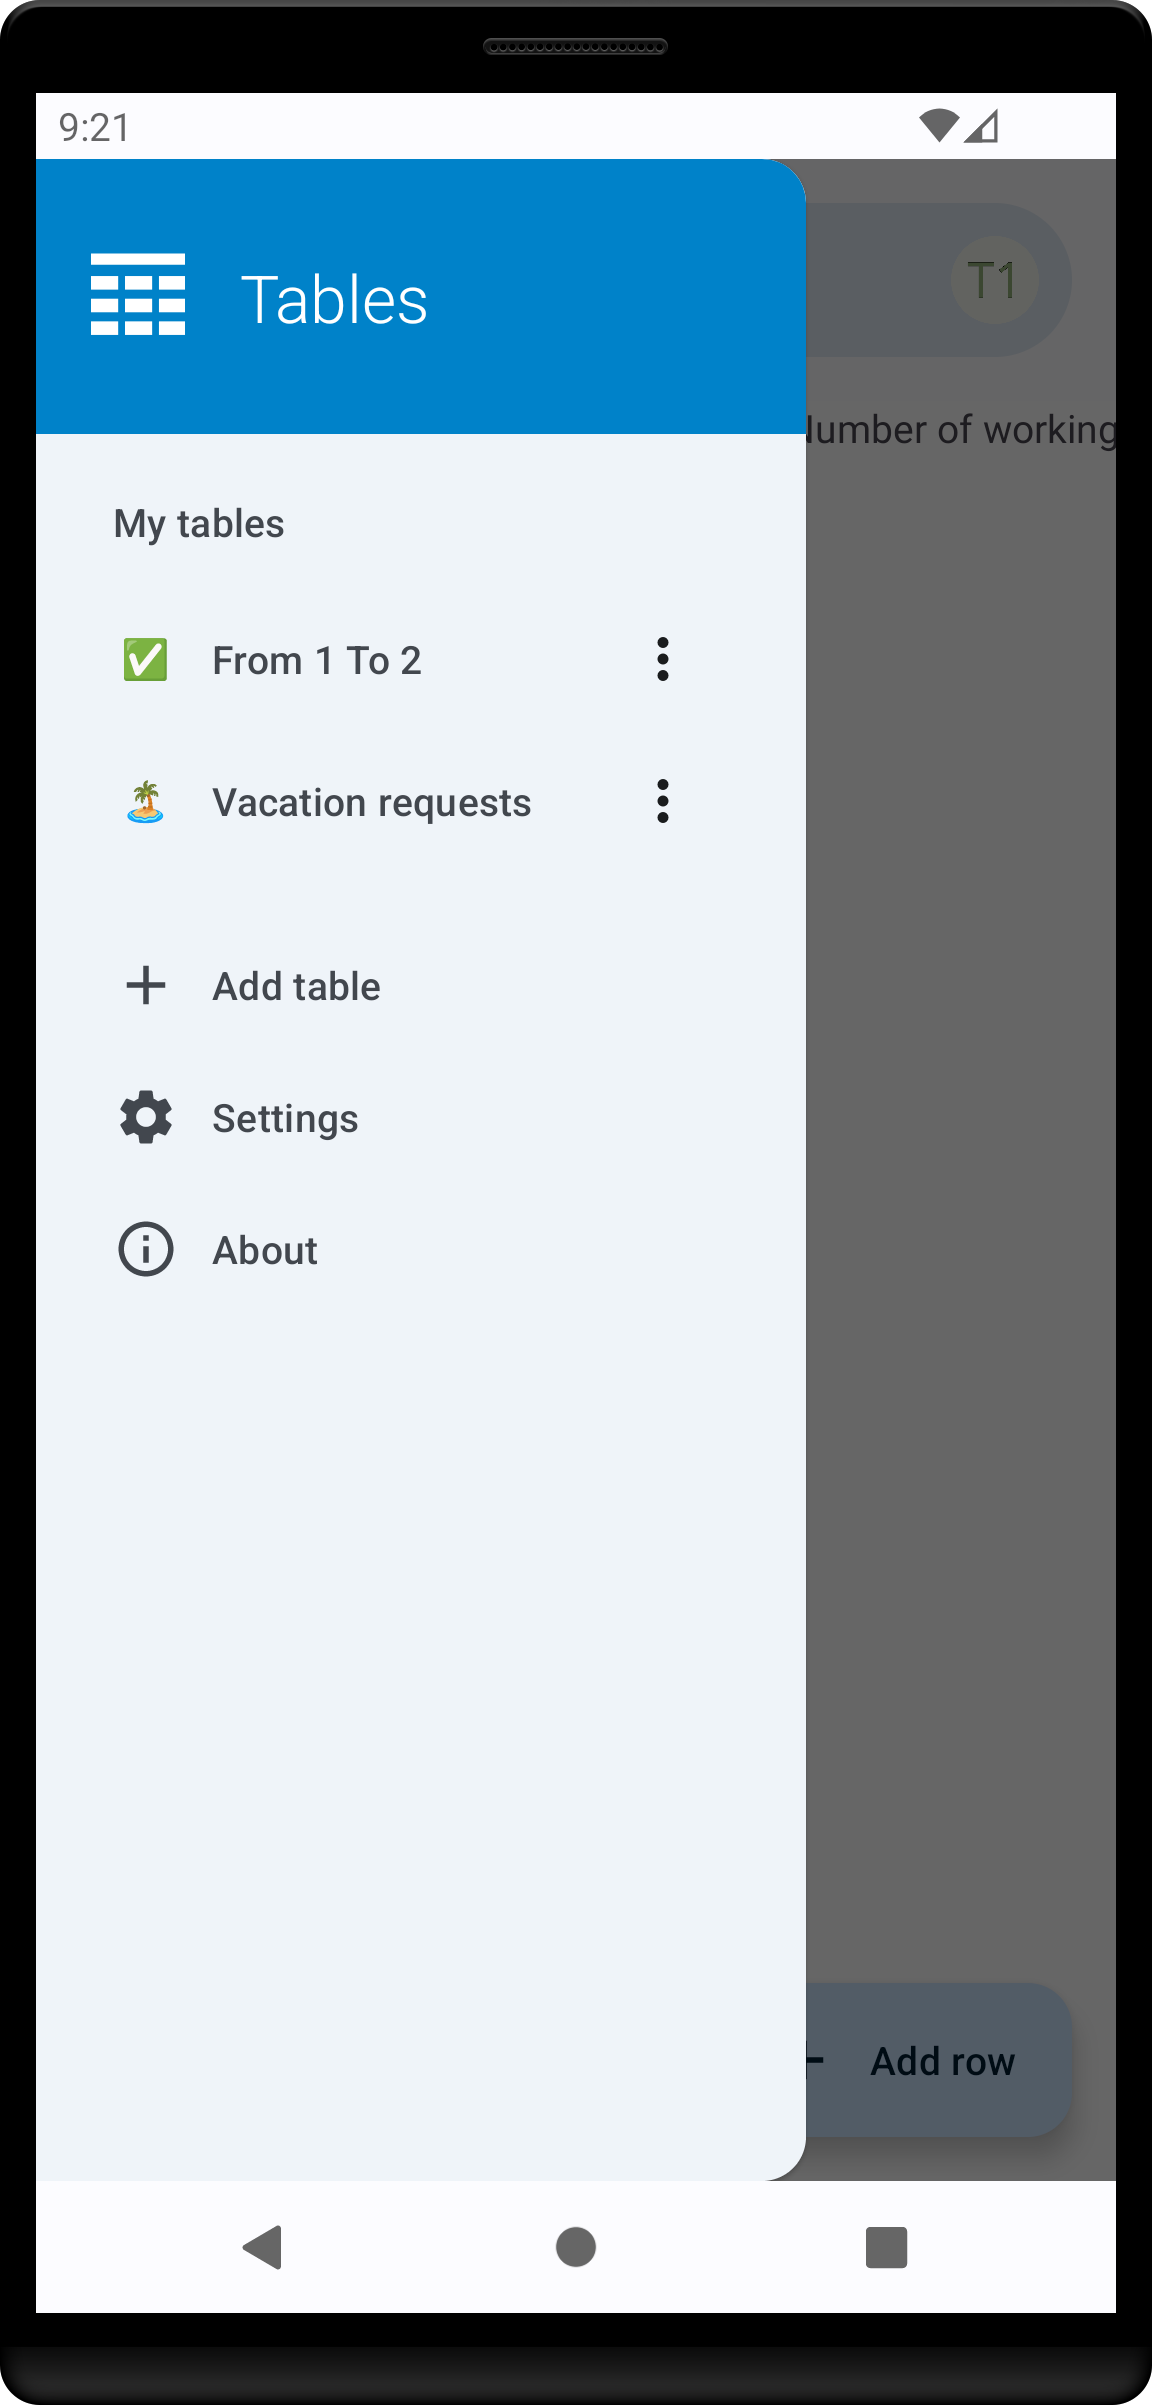
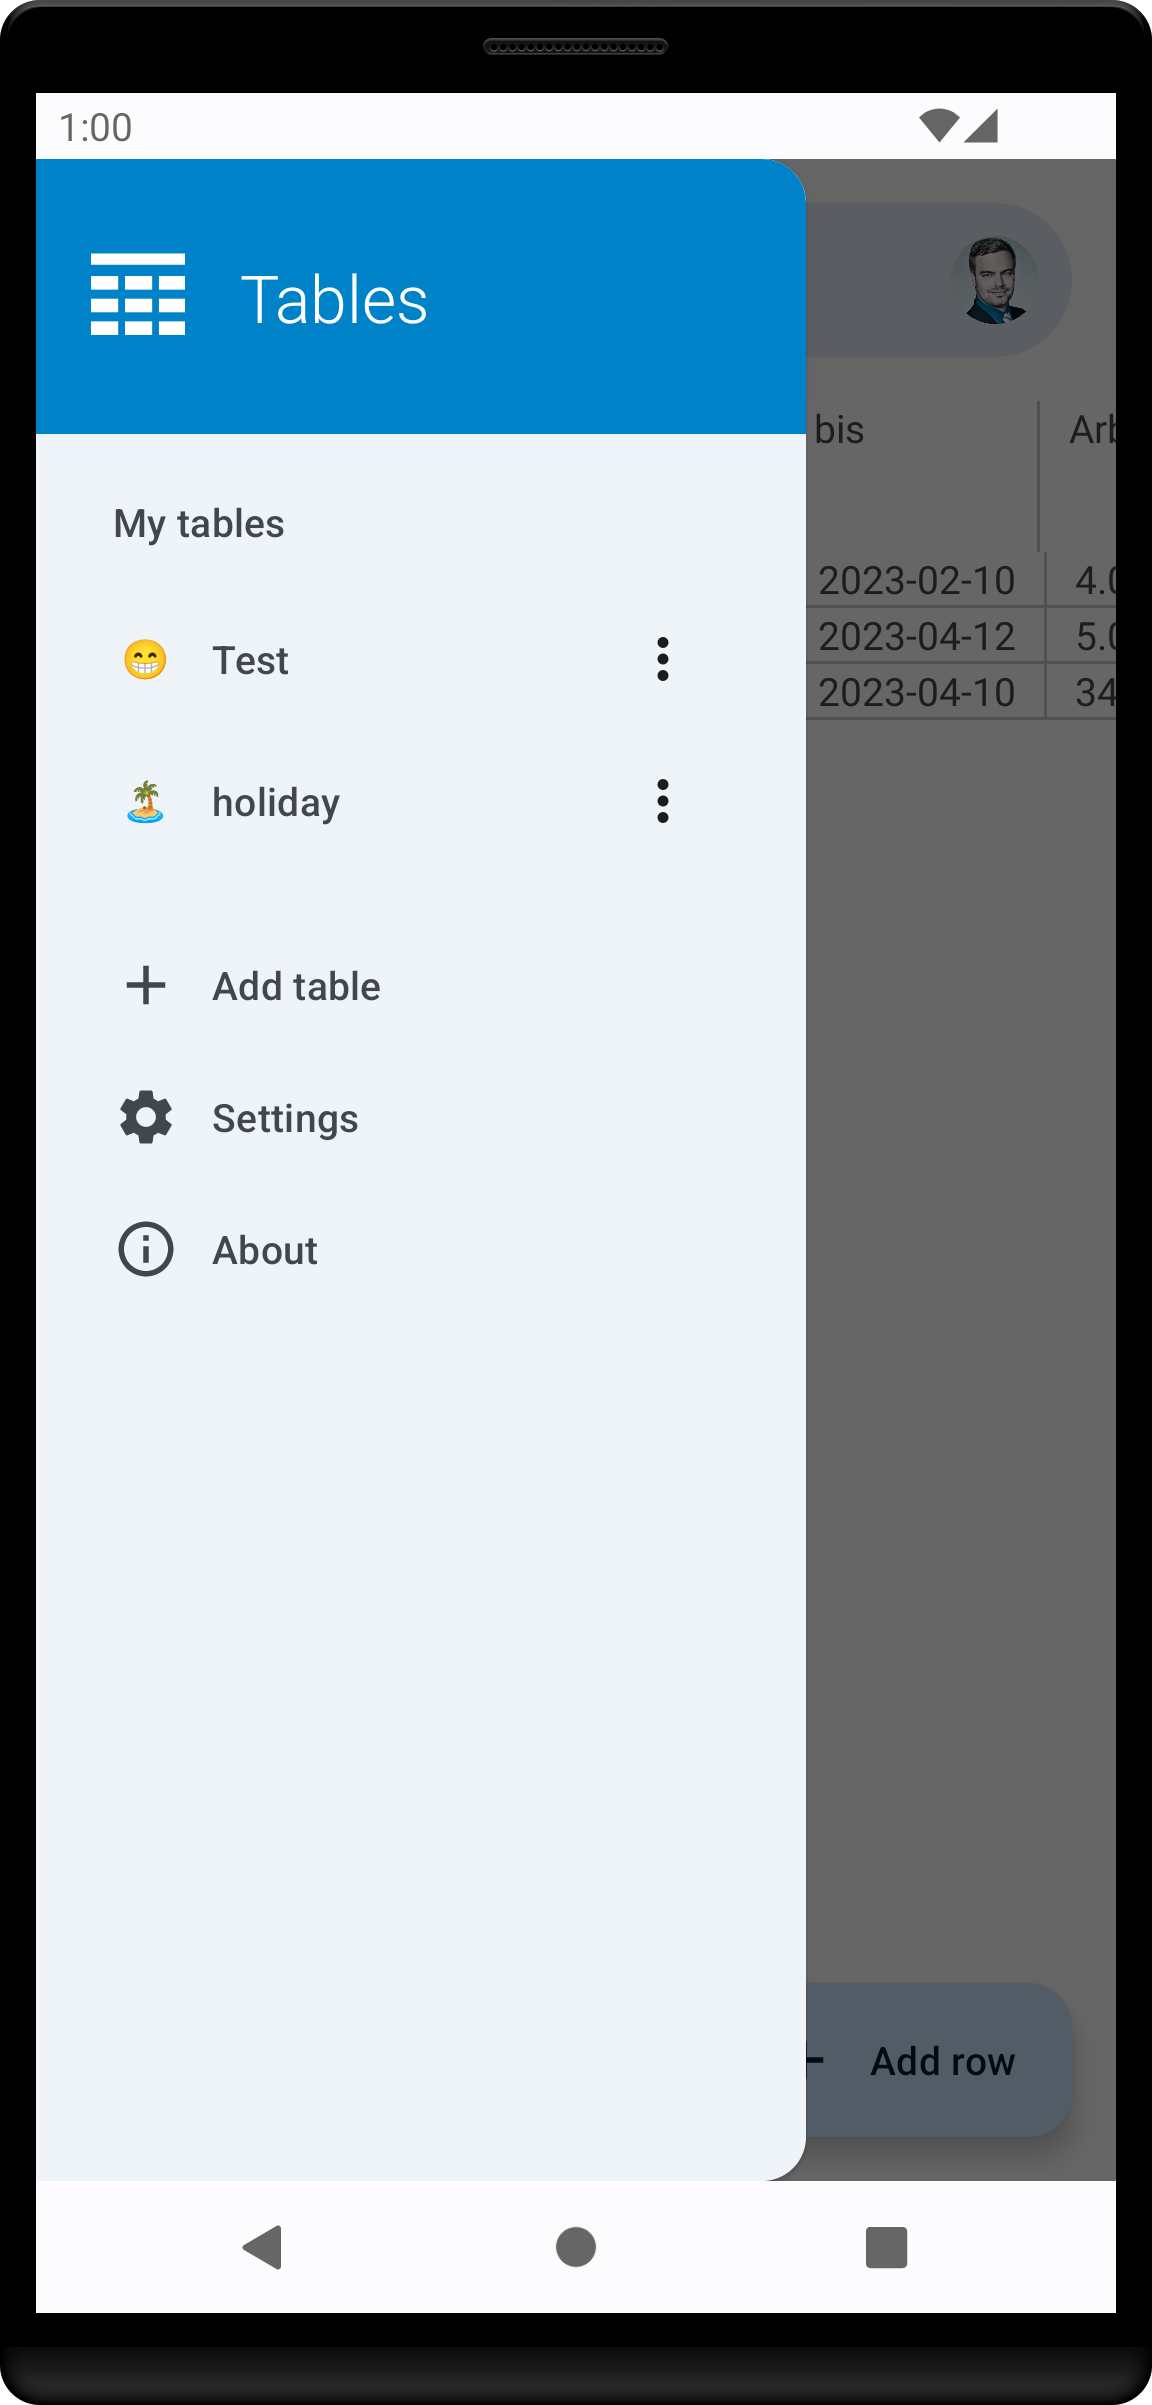
feat: Display table cells

diff --git a/app/src/main/java/it/niedermann/nextcloud/tables/database/entity/Data.java b/app/src/main/java/it/niedermann/nextcloud/tables/database/entity/Data.java
@@ -1,5 +1,6 @@
 package it.niedermann.nextcloud.tables.database.entity;
 
+import androidx.annotation.NonNull;
 import androidx.room.Entity;
 import androidx.room.ForeignKey;
 import androidx.room.Index;
@@ -14,14 +15,20 @@ import java.util.Objects;
         foreignKeys = {
                 @ForeignKey(
                         entity = Column.class,
-                        parentColumns = {"accountId", "id", "remoteId"},
-                        childColumns = {"accountId", "columnId", "remoteColumnId"},
+                        parentColumns = {"accountId", "tableId", "id", "remoteId"},
+                        childColumns = {"accountId", "tableId", "columnId", "remoteColumnId"},
                         onDelete = ForeignKey.CASCADE
                 ),
                 @ForeignKey(
                         entity = Row.class,
+                        parentColumns = {"accountId", "tableId", "id"},
+                        childColumns = {"accountId", "tableId", "rowId"},
+                        onDelete = ForeignKey.CASCADE
+                ),
+                @ForeignKey(
+                        entity = Table.class,
                         parentColumns = {"accountId", "id"},
-                        childColumns = {"accountId", "rowId"},
+                        childColumns = {"accountId", "tableId"},
                         onDelete = ForeignKey.CASCADE
                 )
         },
@@ -38,6 +45,9 @@ public class Data extends AbstractAccountRelatedEntity {
     @SerializedName("localRowId")
     @Expose(deserialize = false, serialize = false)
     private long rowId;
+    @SerializedName("localTableId")
+    @Expose(deserialize = false, serialize = false)
+    private long tableId;
     @SerializedName("columnId")
     private long remoteColumnId;
     private Object value;
@@ -62,6 +72,14 @@ public class Data extends AbstractAccountRelatedEntity {
         this.rowId = rowId;
     }
 
+    public long getTableId() {
+        return tableId;
+    }
+
+    public void setTableId(long tableId) {
+        this.tableId = tableId;
+    }
+
     public long getRemoteColumnId() {
         return remoteColumnId;
     }
@@ -84,11 +102,17 @@ public class Data extends AbstractAccountRelatedEntity {
         if (o == null || getClass() != o.getClass()) return false;
         if (!super.equals(o)) return false;
         Data data = (Data) o;
-        return columnId == data.columnId && rowId == data.rowId && remoteColumnId == data.remoteColumnId && Objects.equals(value, data.value);
+        return columnId == data.columnId && rowId == data.rowId && tableId == data.tableId && remoteColumnId == data.remoteColumnId && Objects.equals(value, data.value);
     }
 
     @Override
     public int hashCode() {
-        return Objects.hash(super.hashCode(), columnId, rowId, remoteColumnId, value);
+        return Objects.hash(super.hashCode(), columnId, rowId, tableId, remoteColumnId, value);
+    }
+
+    @NonNull
+    @Override
+    public String toString() {
+        return getValue() + " in Table " + getTableId() + ", Row: " + getRowId() + ", Column: " + getColumnId();
     }
 }

diff --git a/app/src/main/java/it/niedermann/nextcloud/tables/ui/table/view/ViewTableFragment.java b/app/src/main/java/it/niedermann/nextcloud/tables/ui/table/view/ViewTableFragment.java
@@ -9,12 +9,8 @@ import android.view.ViewGroup;
 import androidx.annotation.NonNull;
 import androidx.core.content.ContextCompat;
 import androidx.fragment.app.Fragment;
-import androidx.lifecycle.Transformations;
 import androidx.lifecycle.ViewModelProvider;
 
-import java.util.stream.Collectors;
-
-import it.niedermann.nextcloud.tables.database.entity.AbstractRemoteEntity;
 import it.niedermann.nextcloud.tables.database.entity.Account;
 import it.niedermann.nextcloud.tables.database.entity.Table;
 import it.niedermann.nextcloud.tables.databinding.FragmentTableBinding;
@@ -51,21 +47,9 @@ public class ViewTableFragment extends Fragment {
         adapter = new TableViewAdapter();
         binding.tableView.setAdapter(adapter);
 
-        viewTableViewModel.getRows(table).observe(getViewLifecycleOwner(), rows -> {
-            adapter.setRowHeaderItems(rows);
-        });
-
-        viewTableViewModel.getColumns(table).observe(getViewLifecycleOwner(), columns -> {
-            adapter.setColumnHeaderItems(columns);
-        });
-
-        Transformations.switchMap(viewTableViewModel.getColumns(table), columns -> viewTableViewModel
-                        .getData(table, columns.stream()
-                                .map(AbstractRemoteEntity::getRemoteId)
-                                .collect(Collectors.toUnmodifiableList())))
-                .observe(getViewLifecycleOwner(), data -> {
-//                adapter.setCellItems(data);
-                });
+        viewTableViewModel.getRows(table).observe(getViewLifecycleOwner(), rows -> adapter.setRowHeaderItems(rows));
+        viewTableViewModel.getColumns(table).observe(getViewLifecycleOwner(), columns -> adapter.setColumnHeaderItems(columns));
+        viewTableViewModel.getData(table).observe(getViewLifecycleOwner(), data -> adapter.setCellItems(data));
 
         binding.fab.setOnClickListener(v -> startActivity(EditRowActivity.createIntent(requireContext(), account)));
         binding.swipeRefreshLayout.setOnRefreshListener(() -> viewTableViewModel.synchronizeAccountAndTables(account).whenCompleteAsync((result, exception) -> {

diff --git a/app/src/main/java/it/niedermann/nextcloud/tables/ui/table/view/ViewTableViewModel.java b/app/src/main/java/it/niedermann/nextcloud/tables/ui/table/view/ViewTableViewModel.java
@@ -7,16 +7,20 @@ import android.app.Application;
 import androidx.annotation.NonNull;
 import androidx.lifecycle.AndroidViewModel;
 import androidx.lifecycle.LiveData;
+import androidx.lifecycle.Transformations;
 
 import com.nextcloud.android.sso.exceptions.NextcloudFilesAppAccountNotFoundException;
 import com.nextcloud.android.sso.exceptions.NextcloudHttpRequestFailedException;
 
 import java.io.IOException;
+import java.util.ArrayList;
 import java.util.List;
+import java.util.Map;
 import java.util.concurrent.CompletableFuture;
 import java.util.concurrent.CompletionException;
 import java.util.concurrent.ExecutorService;
 import java.util.concurrent.Executors;
+import java.util.stream.Collectors;
 
 import it.niedermann.nextcloud.tables.database.entity.Account;
 import it.niedermann.nextcloud.tables.database.entity.Column;
@@ -61,7 +65,22 @@ public class ViewTableViewModel extends AndroidViewModel {
         return tablesRepository.getColumns(table);
     }
 
-    public LiveData<List<Data>> getData(@NonNull Table table, List<Long> remoteColumnIds) {
-        return tablesRepository.getData(table, remoteColumnIds);
+    public LiveData<List<List<Data>>> getData(@NonNull Table table) {
+        return Transformations.map(tablesRepository.getData(table), data -> new ArrayList<>(data.stream()
+                .collect(Collectors.groupingBy(Data::getRowId, Collectors.groupingBy(Data::getColumnId)))
+                .values())
+                .stream()
+                .map(Map::values)
+                .map(ArrayList::new)
+                .collect(Collectors.toUnmodifiableList())
+                .stream()
+                .map(cols -> cols.stream().map(col -> {
+                    if (col.size() > 1) {
+                        throw new RuntimeException("");
+                    } else {
+                        return col.iterator().next();
+                    }
+                }).collect(Collectors.toUnmodifiableList()))
+                .collect(Collectors.toUnmodifiableList()));
     }
 }

diff --git a/app/src/main/java/it/niedermann/nextcloud/tables/repository/TablesRepository.java b/app/src/main/java/it/niedermann/nextcloud/tables/repository/TablesRepository.java
@@ -165,6 +165,7 @@ public class TablesRepository {
                     final var insertedRow = db.getRowDao().insert(row);
                     for (final var data : row.getData()) {
                         data.setAccountId(table.getAccountId());
+                        data.setTableId(table.getId());
                         data.setRowId(insertedRow);
                         data.setColumnId(db.getColumnDao().getColumnId(table.getAccountId(), data.getRemoteColumnId()));
                         db.getDataDao().insert(data);
@@ -233,7 +234,7 @@ public class TablesRepository {
         return db.getColumnDao().getNotDeletedColumns$(table.getId());
     }
 
-    public LiveData<List<Data>> getData(@NonNull Table table, List<Long> remoteColumnIds) {
-        return db.getDataDao().getData(table.getId(), remoteColumnIds);
+    public LiveData<List<Data>> getData(@NonNull Table table) {
+        return db.getDataDao().getData(table.getAccountId(), table.getId());
     }
 }

diff --git a/app/src/main/java/it/niedermann/nextcloud/tables/database/dao/DataDao.java b/app/src/main/java/it/niedermann/nextcloud/tables/database/dao/DataDao.java
@@ -2,6 +2,7 @@ package it.niedermann.nextcloud.tables.database.dao;
 
 import androidx.lifecycle.LiveData;
 import androidx.room.Dao;
+import androidx.room.MapInfo;
 import androidx.room.Query;
 
 import java.util.List;
@@ -11,6 +12,7 @@ import it.niedermann.nextcloud.tables.database.entity.Data;
 @Dao
 public interface DataDao extends GenericDao<Data> {
 
-    @Query("SELECT * FROM Data d WHERE d.accountId = :accountId AND d.remoteColumnId = :remoteColumnIds")
-    LiveData<List<Data>> getData(long accountId, List<Long> remoteColumnIds);
+    @MapInfo(keyColumn = "id")
+    @Query("SELECT * FROM Data d WHERE d.accountId = :accountId AND d.tableId = :tableId ORDER BY d.rowId, d.columnId")
+    LiveData<List<Data>> getData(long accountId, long tableId);
 }

diff --git a/app/src/main/java/it/niedermann/nextcloud/tables/database/entity/Column.java b/app/src/main/java/it/niedermann/nextcloud/tables/database/entity/Column.java
@@ -22,6 +22,7 @@ import java.util.Objects;
                 )
         },
         indices = {
+                @Index(value = {"accountId", "tableId", "id", "remoteId"}, unique = true),
                 @Index(name = "IDX_COLUMN_TABLE_ID", value = "tableId")
         }
 )

diff --git a/app/src/main/java/it/niedermann/nextcloud/tables/database/entity/Row.java b/app/src/main/java/it/niedermann/nextcloud/tables/database/entity/Row.java
@@ -23,6 +23,7 @@ import java.util.Objects;
                 )
         },
         indices = {
+                @Index(value = {"accountId", "tableId", "id"}, unique = true),
                 @Index(name = "IDX_ROW_TABLE_ID", value = "tableId")
         }
 )

diff --git a/README.md b/README.md
@@ -4,7 +4,6 @@
 
 ## ⛔ Limitations
 
-- Viewing cell data is not possible yet
 - Can still handle 1000 rows at most
 - No write access
 - Sync only on Wi-Fi has no effect yet
